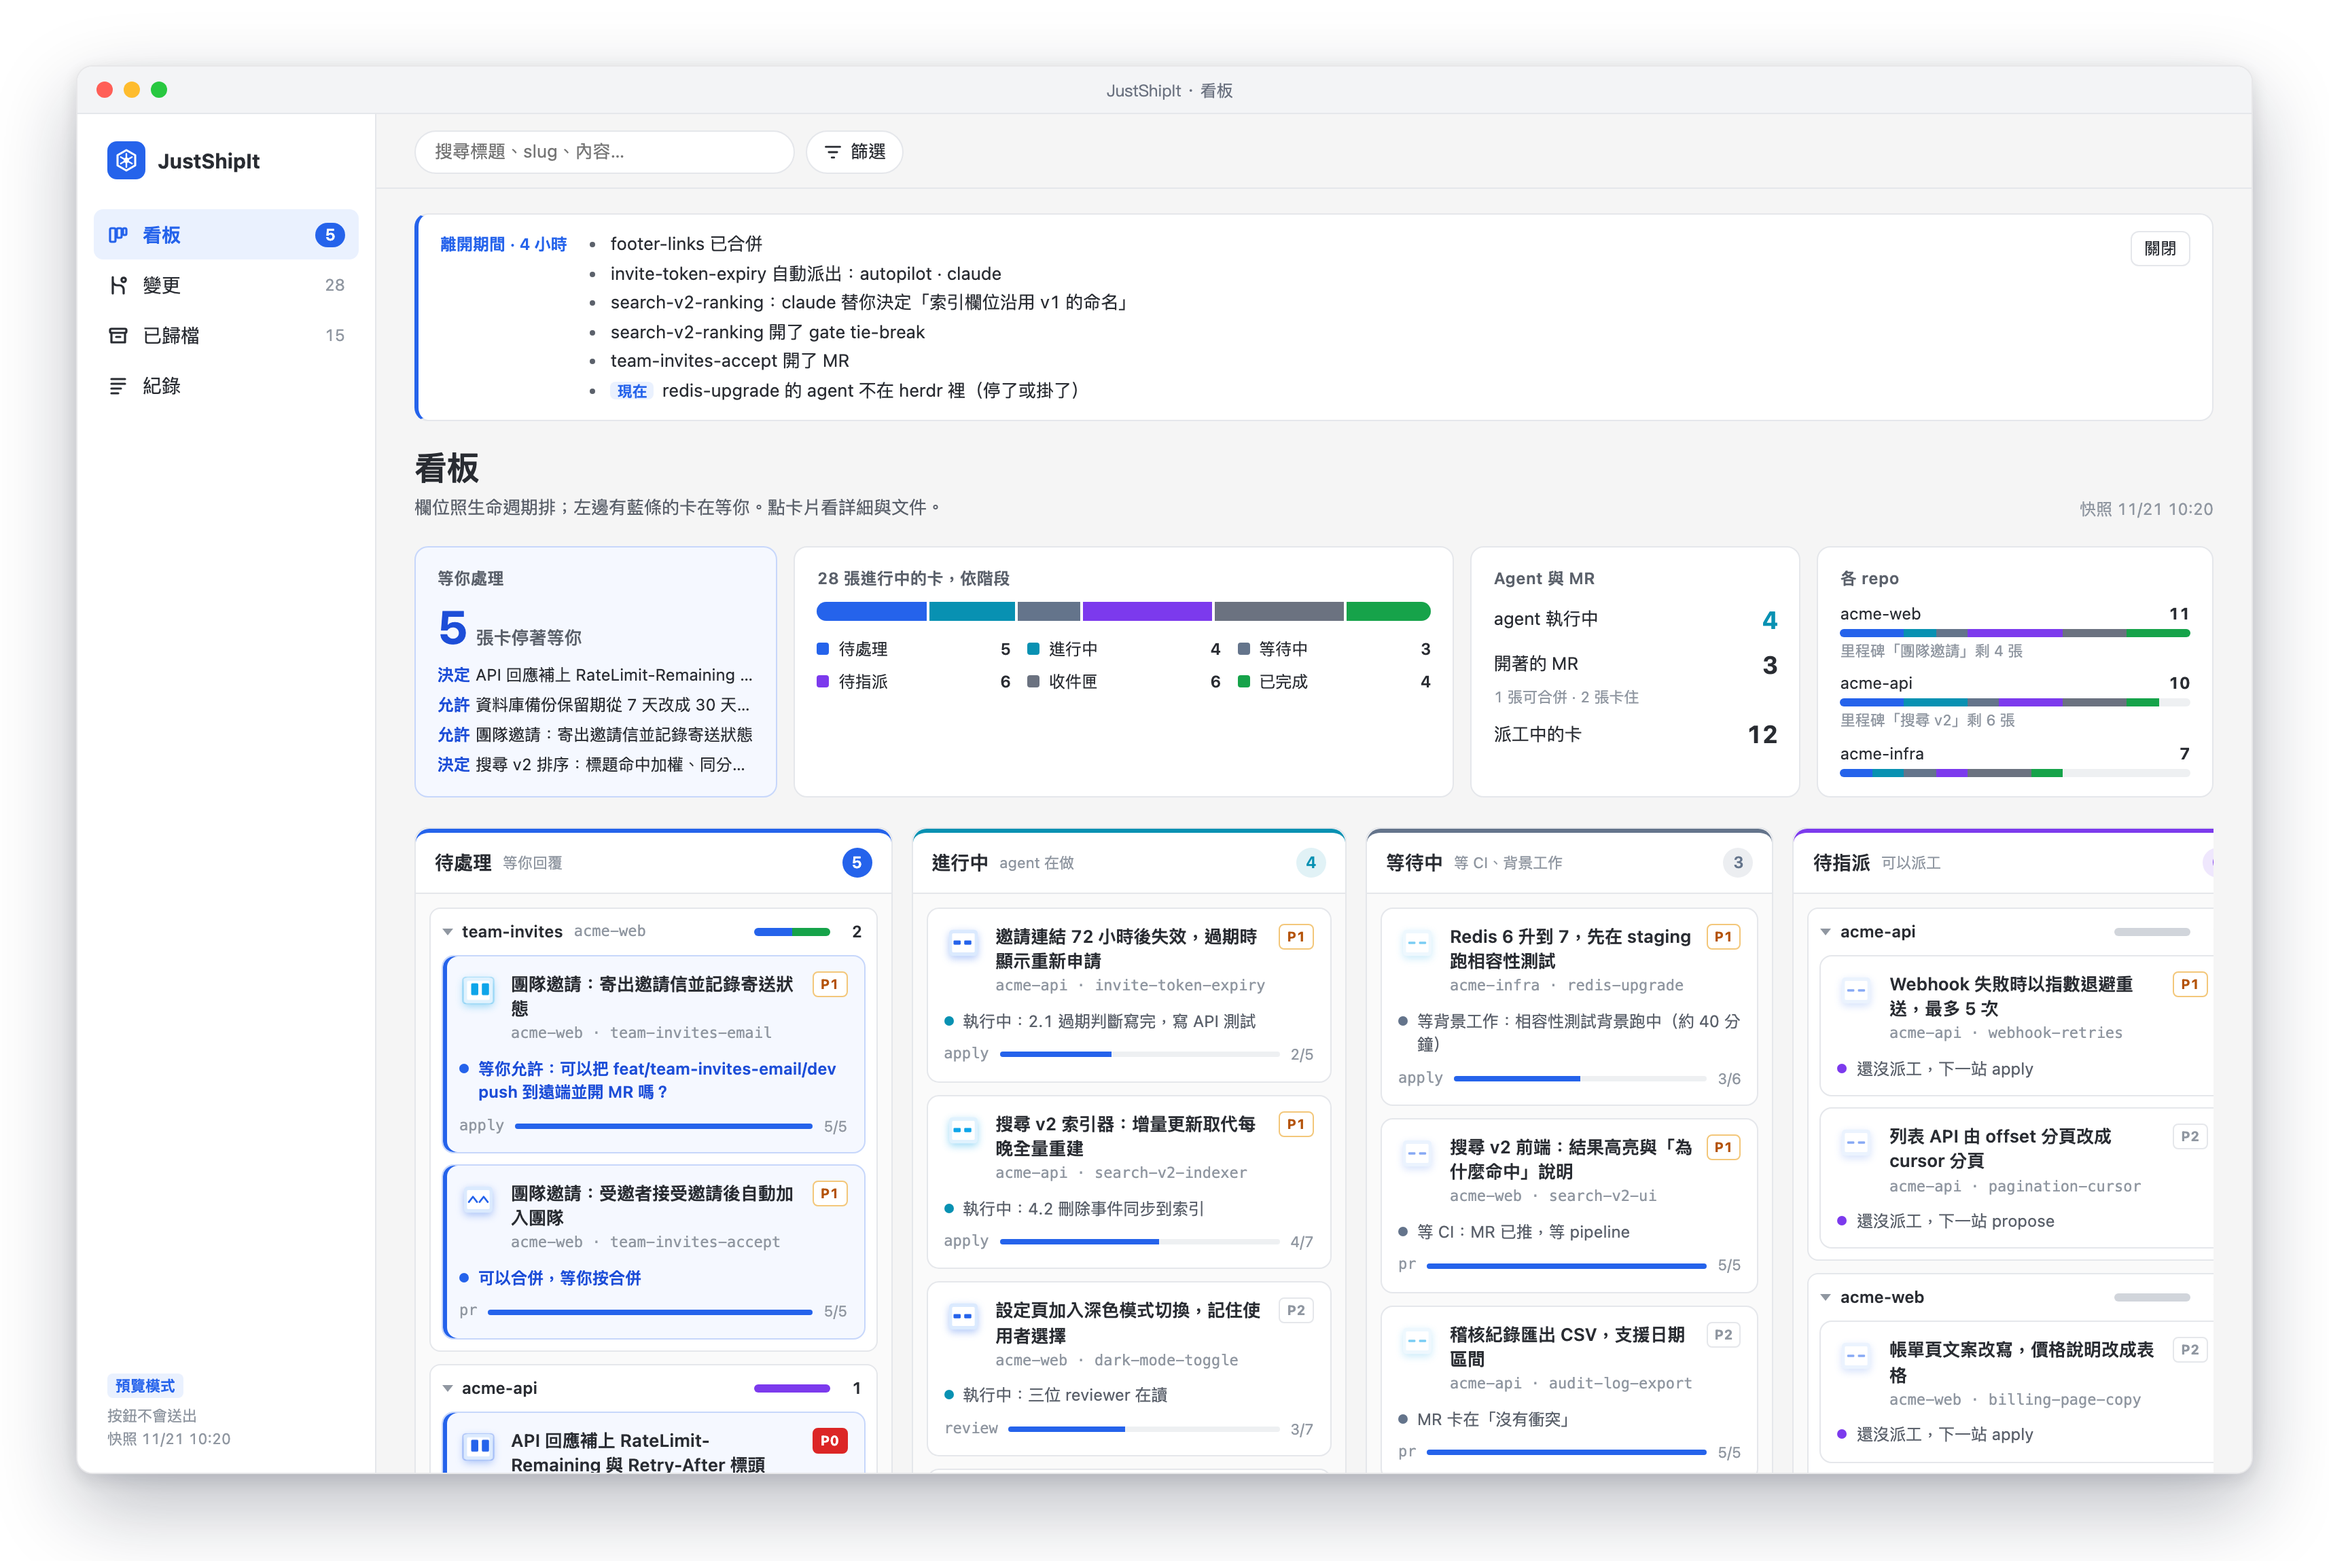
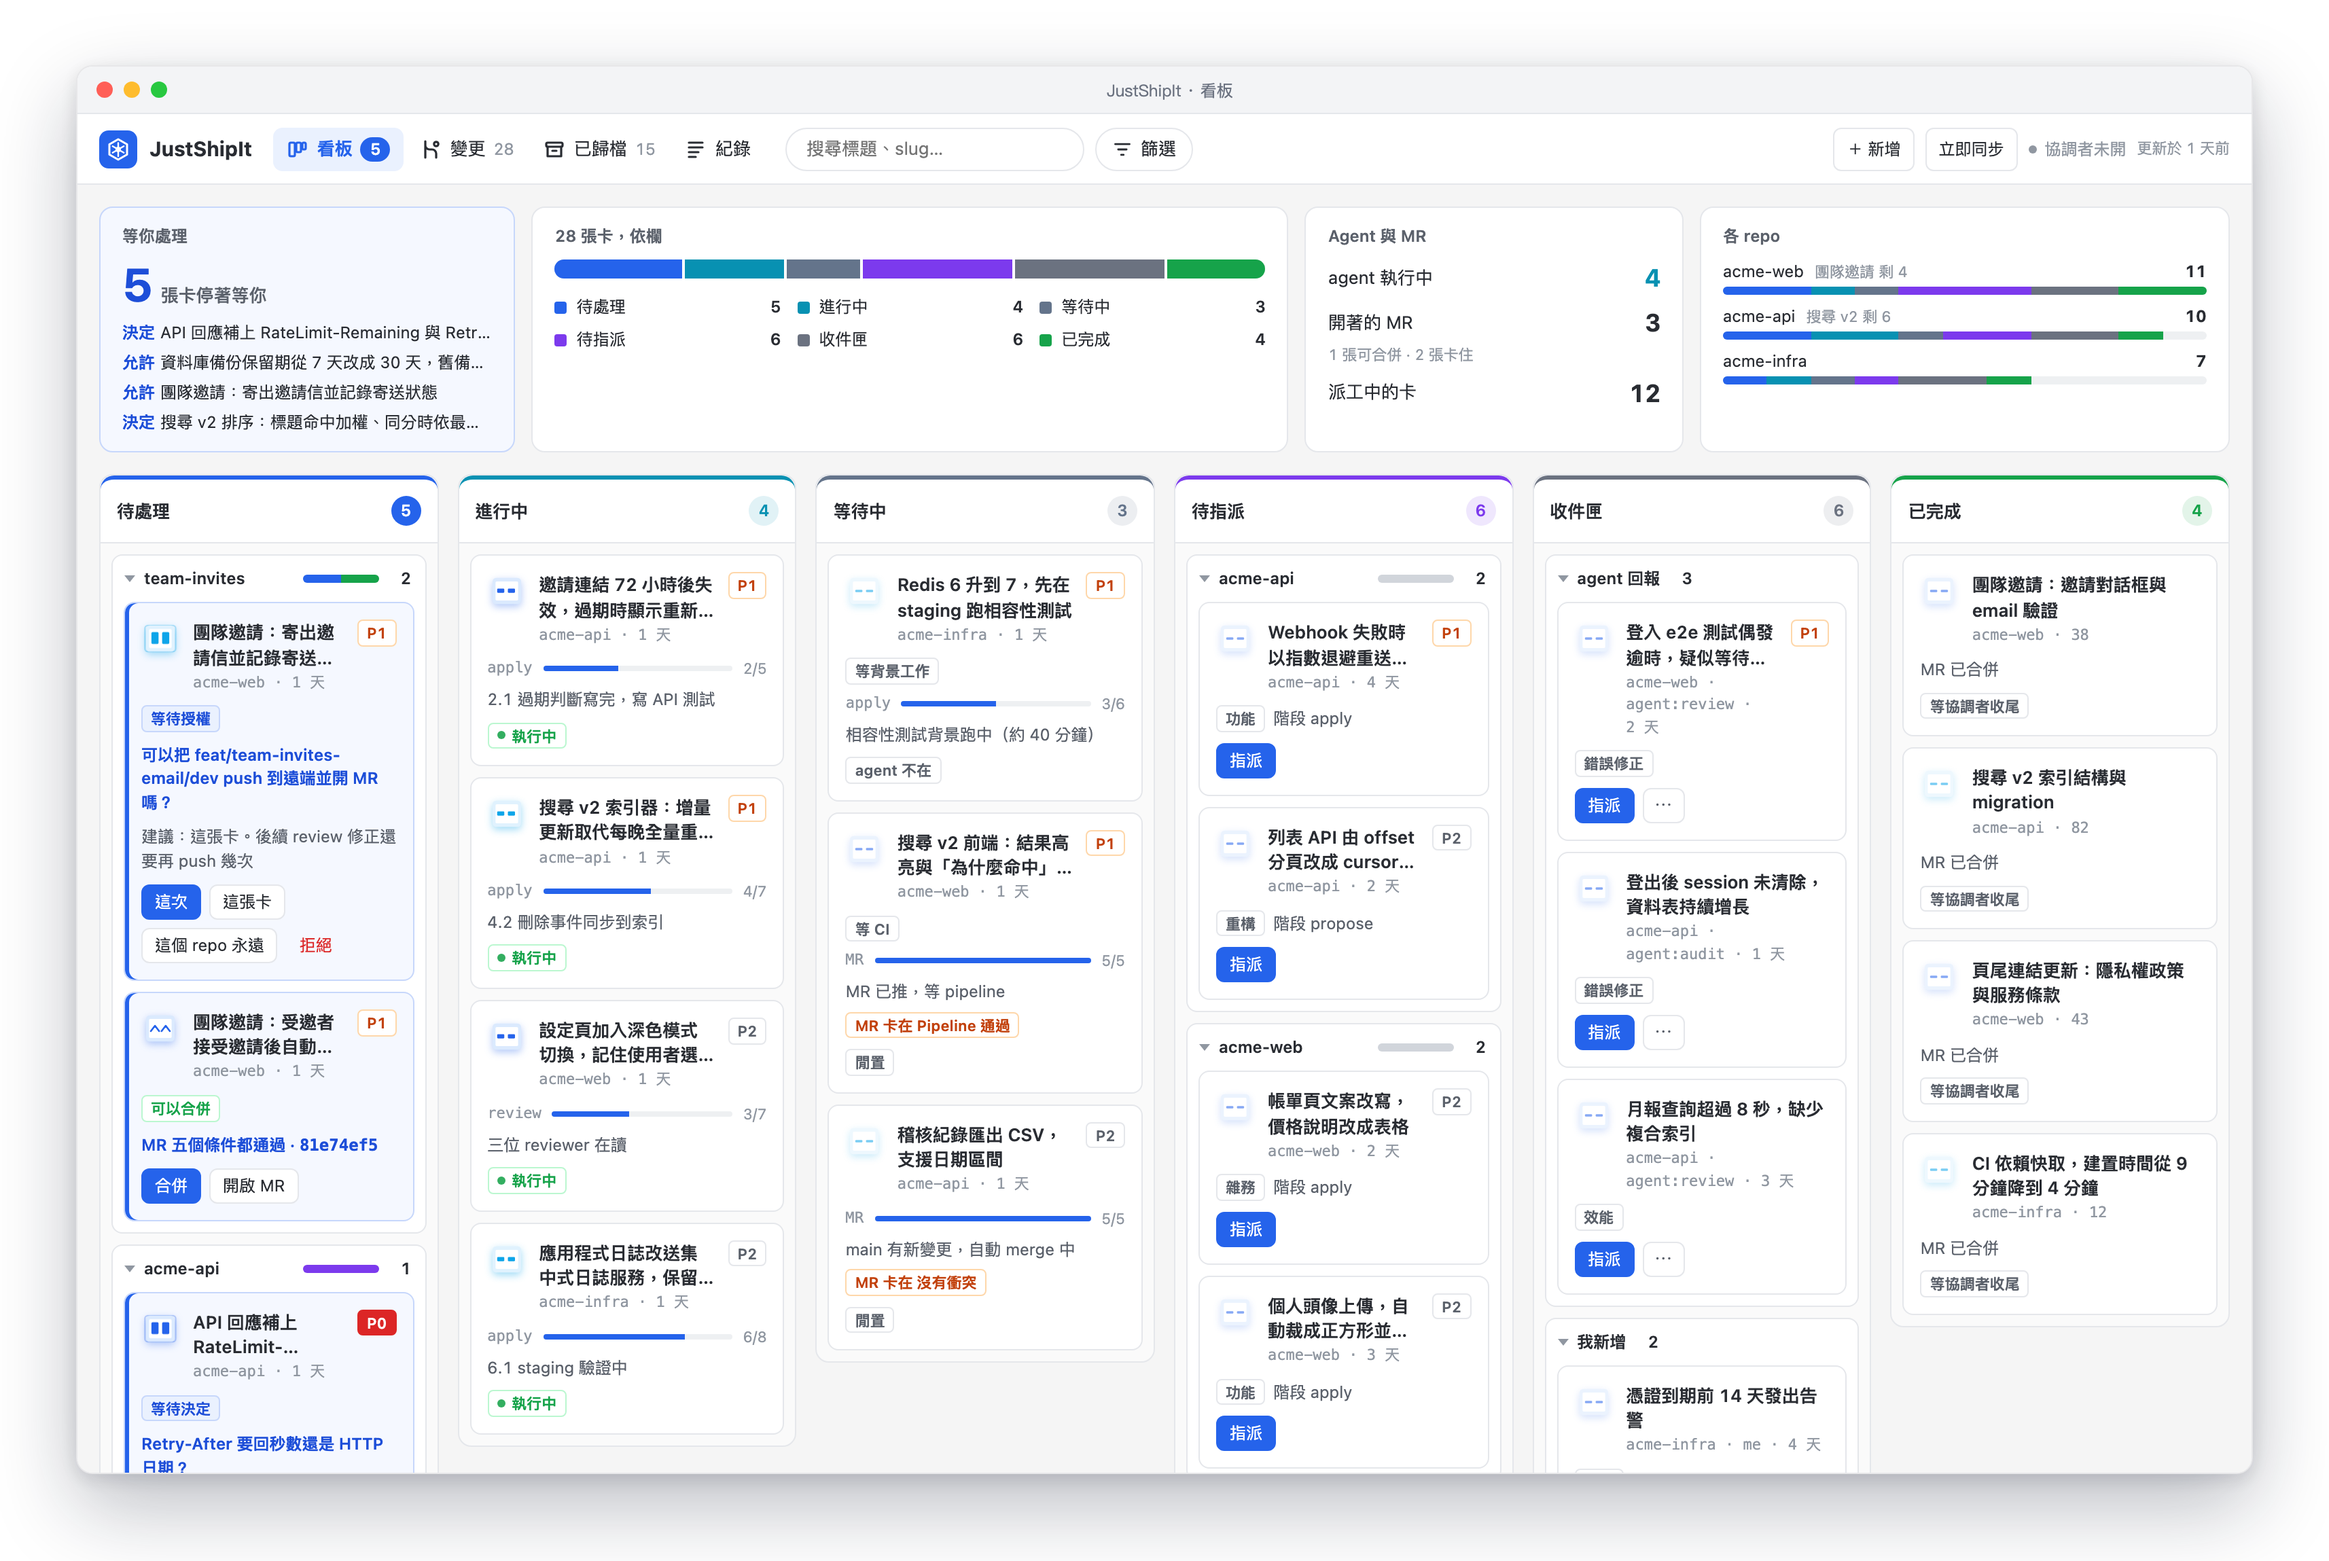
docs(readme): show the shipped board pages in the screenshots
換上看板改版後的截圖：看板、抽屜（新增）、細節頁、變更頁，加上 TUI；每張圖說一句講那一頁能做什麼。看板段照實際行為改寫：頂端導覽、搜尋與單一篩選，欄內依功能分組可收合，點卡開抽屜回 gate，細節頁讀卡內文件，已合併的卡可封存；拿掉不再有的離開期間 banner。readme-landing 測試補驗抽屜截圖。

diff --git a/README.md b/README.md
@@ -18,7 +18,7 @@
 - **多個 agent 共用一個看板，只在需要你時才問。** 要授權或要你選的事寫成 gate，其餘時間不打擾你。
 - **每支 PR 附一張邏輯表。** 從 diff 畫出功能清單、流程與條件，讓你判斷 AI 寫的邏輯，而不是只看它說了什麼。
 
-<img src="docs/assets/board-web-framed.png" alt="JustShipIt 網頁看板：總覽、離開期間 banner，下面是依功能分組的欄位" width="100%" />
+<img src="docs/assets/board-web-framed.png" alt="JustShipIt 看板：頂端導覽與搜尋、總覽，下面是依階段排的欄，欄內依功能分組" width="100%" />
 
 ## <a id="why"></a>解決什麼問題
 
@@ -64,21 +64,26 @@ flowchart LR
 
 看板的資料全由 `opsx collect` 從卡的檔案、狀態目錄、herdr 與 MR 狀態算出來，自己不存狀態。
 
+- 頂端是導覽（看板、變更、已歸檔、紀錄）、搜尋與一個篩選按鈕。
 - 總覽先看等你處理的卡、各階段分布、agent 與 MR、各 repo 進度。
-- 欄內的卡依功能分組，可收合；一個篩選按鈕加 chips 過濾。
-- 你離開期間有變動的卡，回來時用 banner 列出。
-- 卡片細節頁直接讀卡目錄的文件，gate 在頁面上按選項就能回；另有變更頁與已歸檔頁。
-- 已合併的卡可以按封存，背後跑 `openspec archive`。
+- 欄內的卡依功能分組，可收合。
+- 點一張卡從右側滑出抽屜，gate 在抽屜裡按選項就能回。
+- 卡片細節頁讀卡目錄裡的文件，也能停止、重新指派或改等級。
+- 已合併的卡可以封存，背後跑 `openspec archive`。
 - herdr 右側 pane 是同一份清單的終端機版本。
 
 <table>
   <tr>
-    <td width="50%"><img src="docs/assets/card-detail-web-framed.png" alt="卡片細節頁：等你決定的 gate 與選項按鈕，下方是卡目錄的文件清單與內容" /><br /><sub>卡片細節頁：gate 直接按選項回，旁邊讀卡目錄的文件</sub></td>
-    <td width="50%"><img src="docs/assets/changes-web-framed.png" alt="變更頁：依 repo 分組列出每個 openspec change 與目前狀態" /><br /><sub>變更頁：每個 openspec change 依 repo 分組</sub></td>
+    <td width="50%"><img src="docs/assets/board-web-framed.png" alt="看板：頂端導覽與搜尋、總覽，下面是依階段排的欄，欄內依功能分組" /><br /><sub>看板：一眼看到哪些卡在等你、每一欄做到哪</sub></td>
+    <td width="50%"><img src="docs/assets/drawer-web-framed.png" alt="抽屜：點卡片後從右側滑出，上方是等你允許的 gate 與選項按鈕，下方是進度與卡片資訊" /><br /><sub>抽屜：不離開看板就能回 gate、看進度</sub></td>
   </tr>
   <tr>
-    <td width="50%"><img src="docs/assets/board-web-framed.png" alt="網頁看板：離開期間 banner、總覽視覺化，下面是依功能分組的欄位" /><br /><sub>網頁看板：總覽、離開期間 banner、欄內依功能分組</sub></td>
+    <td width="50%"><img src="docs/assets/card-detail-web-framed.png" alt="卡片細節頁：gate、操作按鈕、卡目錄的文件清單與內容" /><br /><sub>細節頁：讀卡目錄的每份文件，停止或重新指派這張卡</sub></td>
+    <td width="50%"><img src="docs/assets/changes-web-framed.png" alt="變更頁：依 repo 分組列出每個 openspec change 的狀態、階段與等級" /><br /><sub>變更頁：依 repo 看每個 change 的階段與等級</sub></td>
+  </tr>
+  <tr>
     <td width="50%"><img src="docs/assets/opsx-tui-demo-framed.png" alt="herdr 右側 TUI 看板：待處理、進行中、待指派、收件匣、已完成，一行一卡" /><br /><sub>herdr 右側 pane：▲ 是等你回的 gate，● 是 agent 正在做的卡，Enter 跳到那張卡的 pane</sub></td>
+    <td width="50%"></td>
   </tr>
 </table>
 
